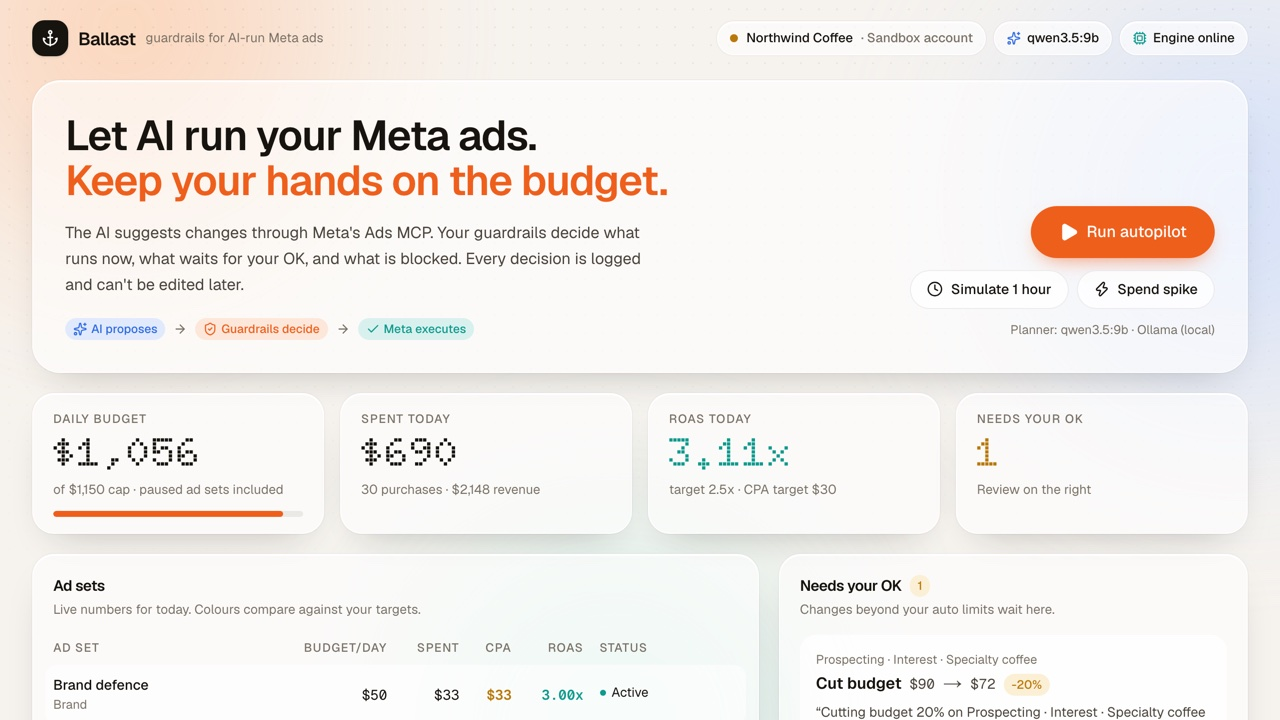
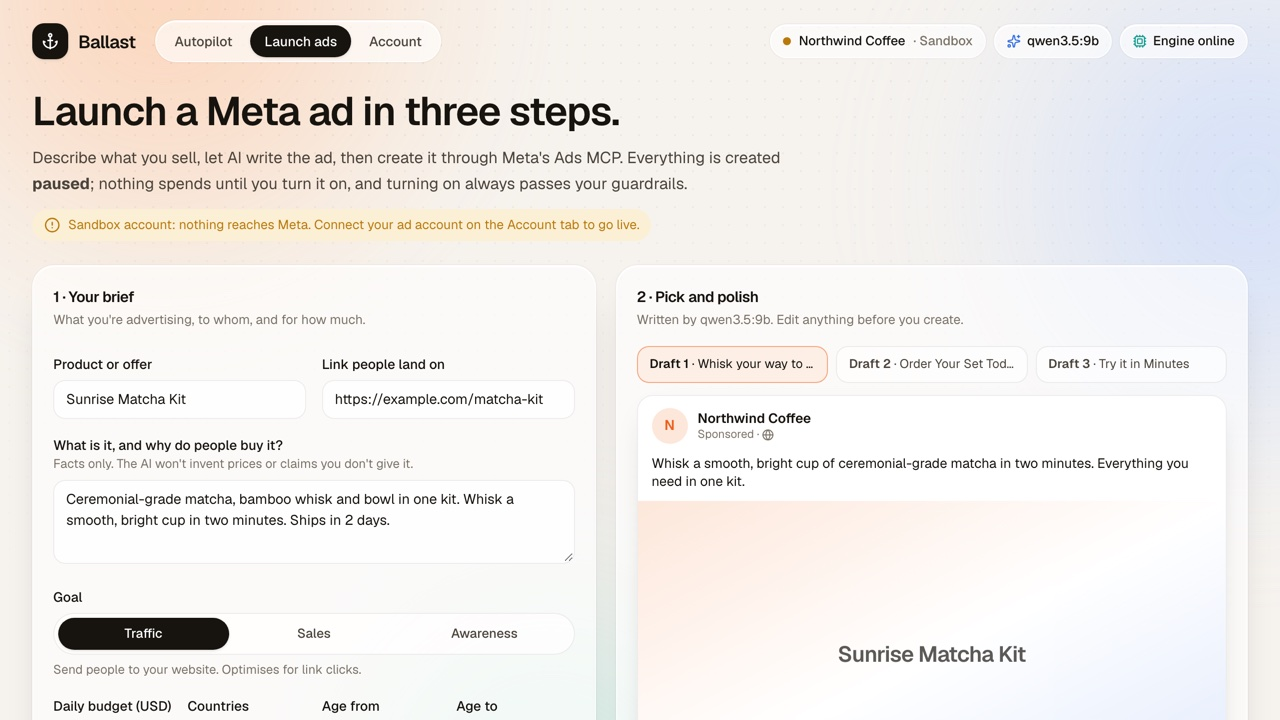
feat(projects): describe Ballast launch flow and account connection
Ballast now launches Meta ads (AI-written copy, created paused through the
Ads MCP, go-live behind guardrails) and lets anyone connect their own ad
account. Updated title, copy, metrics and a Launch page poster.

diff --git a/src/data/projects.ts b/src/data/projects.ts
@@ -1572,11 +1572,11 @@ export const projects: Project[] = [
     },
     {
         slug: "ballast",
-        seoTitle: "Ballast: Guardrails for AI-Run Meta Ads",
-        seoDescription: "Open-source guardrails for AI agents on Meta's Ads MCP. A Rust engine runs, holds or blocks each change, logs it in a hash chain, and handles 53M+ signals/s.",
-        name: "Ballast — Guardrails for AI-Run Meta Ads",
+        seoTitle: "Ballast: Run Meta Ads with AI, Safely",
+        seoDescription: "Open-source app to launch and run Meta ads with AI through Meta's Ads MCP. A Rust guardrail engine runs, holds or blocks every change. 53M+ signals/s.",
+        name: "Ballast — Run Meta Ads with AI, Safely",
         problem: "Meta opened its Ads MCP server to AI agents in 2026, so an agent can now create, edit and activate campaigns on its own. Nothing stands between the model and the budget: eager edits reset Meta's learning phase, spend drifts past what the business meant to risk, and nobody can audit why a change happened.",
-        solves: "Ballast sits between the agent and the ad account. The AI gets one tool, propose_change. A Rust guardrail engine decides whether each change runs now, waits in an approval inbox, or is blocked, and tells the AI why in plain language. Every decision lands in a SHA-256 hash-chained audit log, and a light dashboard shows ad sets, approvals, guardrails and the trail.",
+        solves: "Ballast is a self-hosted app anyone can run on their own Meta ad account. Connect the account with a token, describe a product and get three AI-written ads with a live feed preview, and Ballast creates the campaign, ad set, creative and ad through Meta's Ads MCP, all paused. An AI autopilot then manages budgets. Every change, from creating a campaign to turning it on, passes a Rust guardrail engine that runs it, holds it for your approval or blocks it, and records it in a SHA-256 hash-chained audit log.",
         techStack: ["Rust", "axum", "tokio", "rayon", "Next.js 16", "TypeScript", "AI SDK 7", "@ai-sdk/mcp", "Meta Ads MCP", "Ollama (Qwen 3.5 9B)", "Tailwind CSS 4", "Playwright"],
         status: "active",
         repoUrl: "https://github.com/rohitguta2432/ballast-ads",
@@ -1591,7 +1591,9 @@ export const projects: Project[] = [
                 "Thirteen guardrail checks, including a daily spend cap, per-ad-set cap, max budget step, auto-approve step, learning-phase lock, edit cooldown, activation review, anomaly hold and an action allow-list, under Observe, Assist or Autopilot mode",
                 "Allowed changes are reserved at decision time, so parallel proposals cannot jointly break the cap, and rolled back if the Meta write fails",
                 "AI SDK 7 planner with a single propose_change tool; Meta's write tools stay with Ballast, never with the model",
-                "Sandbox account (a simulated coffee brand with eight ad sets) so the full loop runs without a Meta app; experimental live client for mcp.facebook.com/ads",
+                "Launch flow: brief → three AI ad drafts (local Qwen with reasoning off, about 7 s) → live feed preview → campaign, ad set, creative and ad created paused through ads_create_* MCP tools → go-live through ads_activate_entity only after the guardrails or a human approve",
+                "Account page: anyone pastes a Meta token, Ballast asks Meta's Ads MCP server which ad accounts it can see, and saves the connection on the local machine only",
+                "Sandbox account that speaks the same Meta Ads MCP tools and validates arguments like Meta, so every feature works before connecting a real account",
                 "Light dashboard in Next.js 16: ad sets with CPA and ROAS against targets, approval inbox, guardrail sliders and the verified audit trail"
             ],
             decisions: [
@@ -1602,9 +1604,10 @@ export const projects: Project[] = [
                 "If the audit log cannot be written, the decision is blocked: nothing reaches Meta without a record",
                 "An independent AI code review ran before release; its three high-severity findings (stale budgets, concurrent proposals, fail-open restart) were fixed and covered by tests"
             ],
-            currentStatus: "Open source (MIT) at github.com/rohitguta2432/ballast-ads. 20 Rust integration tests, a typed Next.js build and an end-to-end script that runs the AI, an approval and a spend spike against the sandbox. Measured on an Apple M5 Pro: 53–60M signals/s and 6.2–6.5M guardrail decisions/s over HTTP (target 2M/s). The live Meta client has not yet been run against a real ad account.",
+            currentStatus: "Open source (MIT) at github.com/rohitguta2432/ballast-ads. 22 Rust integration tests, a typed Next.js build and two end-to-end scripts (autopilot, and launch from brief to live campaign) against the sandbox. The connection to mcp.facebook.com/ads is verified; the create and update tool calls follow Marketing API field names but have not yet been run against a real ad account. Measured on an Apple M5 Pro: 53–60M signals/s and 6.2–6.5M guardrail decisions/s over HTTP (target 2M/s).",
             roadmap: [
-                "Verify the live client against a real ad account and publish the tool mapping",
+                "Verify the launch and autopilot tool calls against real ad accounts and publish the mapping",
+                "Image upload once Meta's Ads MCP server exposes it (today ads use a public image URL)",
                 "Persist the approval queue",
                 "Conversion-aware anomaly model and day-parting",
                 "Slack and WhatsApp approvals",

diff --git a/src/data/ai-projects.ts b/src/data/ai-projects.ts
@@ -342,10 +342,10 @@ export const aiProjectSummaries: AIProjectSummary[] = [
         ],
     },
     {
-        title: "Ballast — Guardrails for AI-Run Meta Ads",
+        title: "Ballast — Run Meta Ads with AI, Safely",
         slug: "ballast",
-        problem: "Meta's Ads MCP lets AI agents edit and activate campaigns, but nothing stops a model from resetting learning, overspending or leaving no audit trail.",
-        solution: "The AI only proposes. A Rust engine runs, holds for approval or blocks each change against per-account guardrails, and writes every decision to a hash-chained audit log.",
+        problem: "Meta's Ads MCP lets AI create, edit and activate campaigns, but nothing stops a model from overspending, resetting learning or leaving no audit trail.",
+        solution: "Self-hosted app: connect your own ad account, launch campaigns from AI-written ads (created paused), and let an AI autopilot manage budgets. A Rust engine runs, holds or blocks every change and logs it in a hash chain.",
         techStack: ["Rust", "axum", "Next.js 16", "AI SDK 7", "Meta Ads MCP", "Ollama"],
         aiApproach: "A local Qwen 3.5 9B (or AI Gateway) plans through one propose_change tool. The model never holds Meta's write tools, and the engine's verdict comes back as the tool result.",
         repoUrl: "https://github.com/rohitguta2432/ballast-ads",
@@ -354,7 +354,7 @@ export const aiProjectSummaries: AIProjectSummary[] = [
         metrics: [
             { label: "HTTP ingest", value: "53M+/s" },
             { label: "Guardrail checks", value: "13" },
-            { label: "Rust tests", value: "20" },
+            { label: "Rust tests", value: "22" },
         ],
     },
 ];
